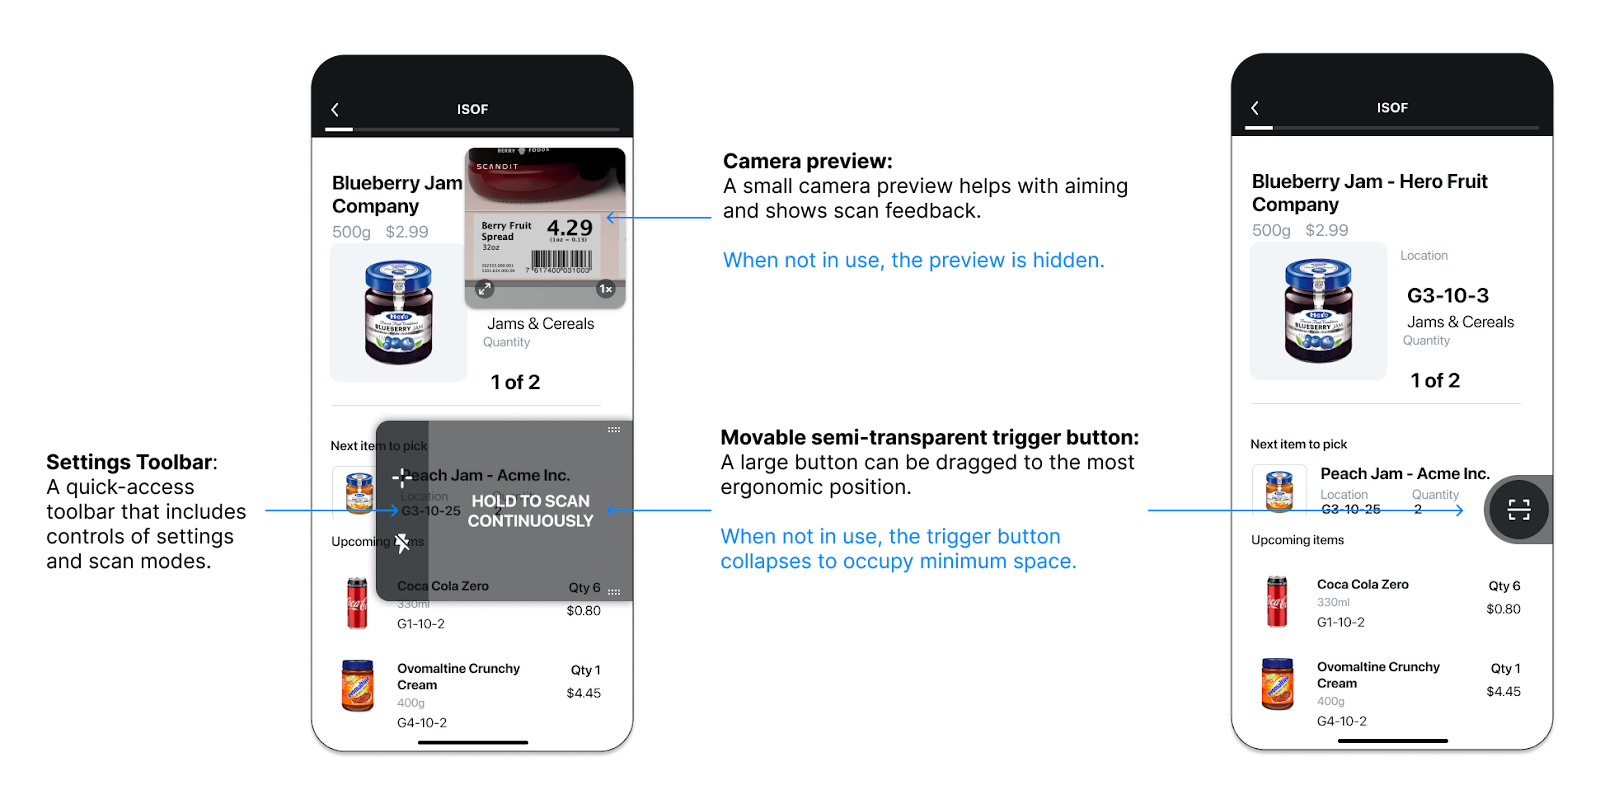
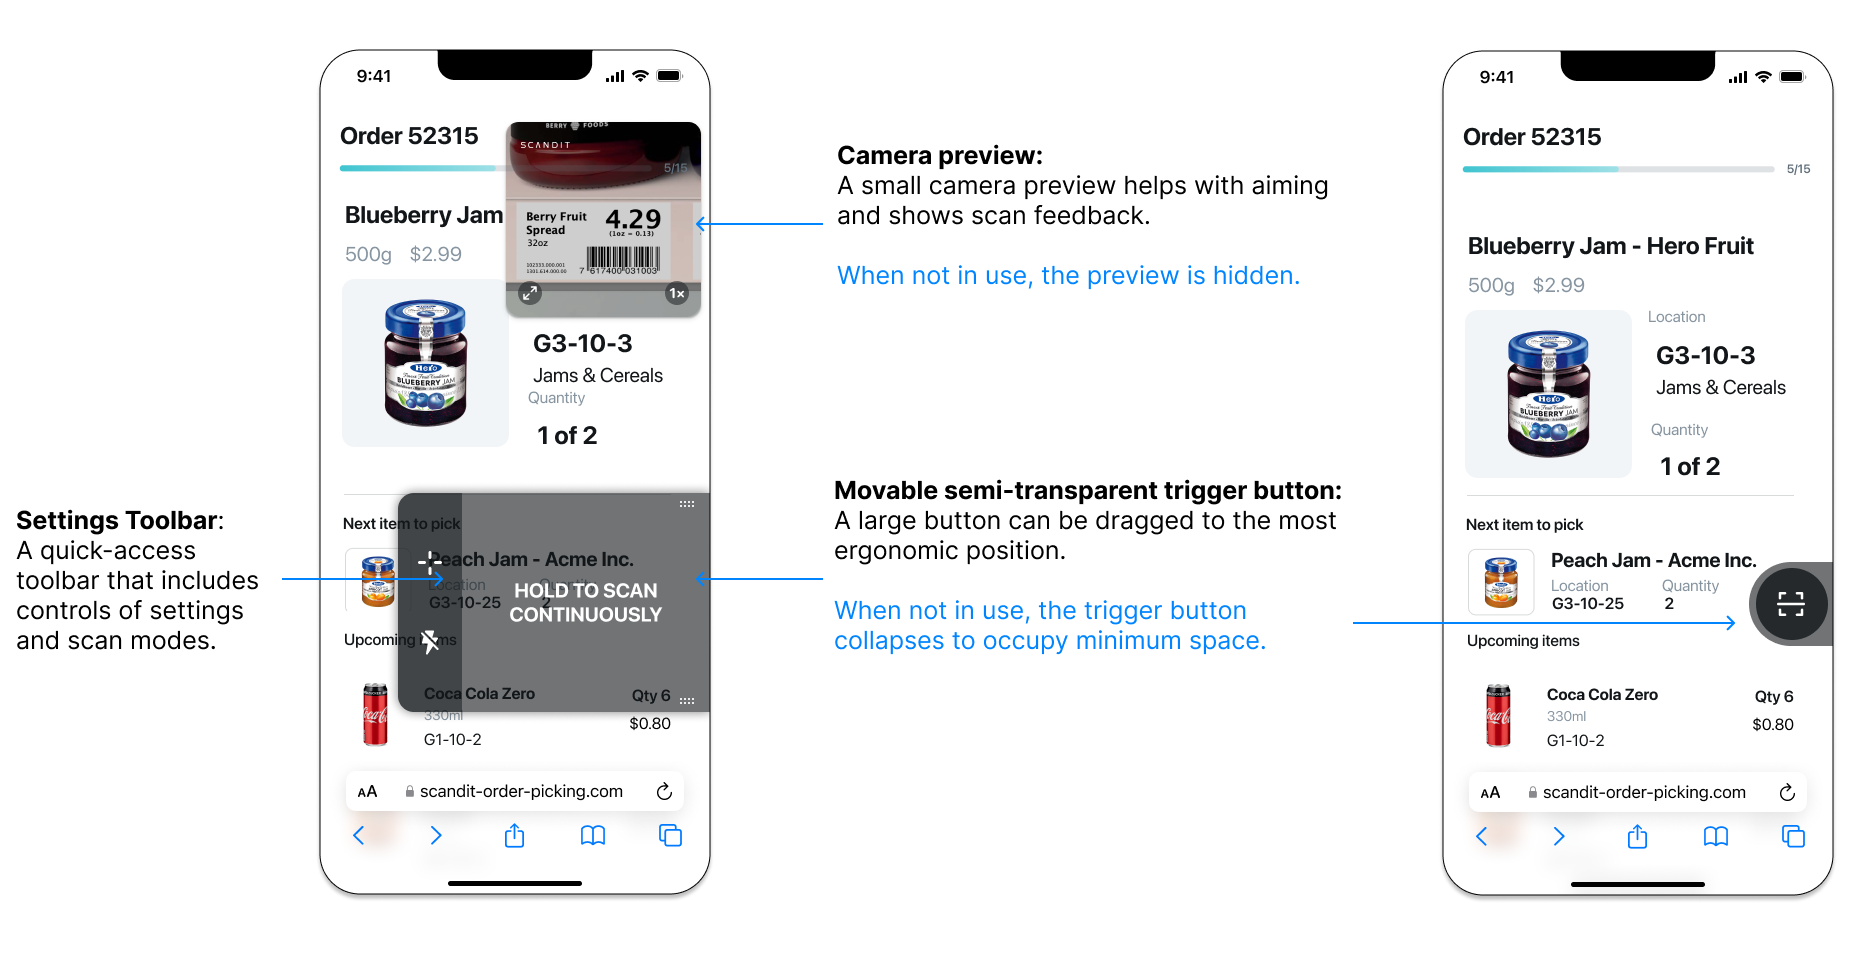
Update SparkScan images

diff --git a/docs/sdks/web/sparkscan/intro.md b/docs/sdks/web/sparkscan/intro.md
@@ -15,7 +15,7 @@ The UI elements in SparkScan are intentionally minimalistic, meant to be overlay
 
 Three main elements compose the UI:
 
-![SparkScan UI](/img/sparkscan/features.png)
+![SparkScan UI](/img/sparkscan/features_web.png)
 
 - **Camera preview**: A small camera preview helps with aiming and shows scan feedback. When not in use, the camera preview is hidden.
 - **Trigger button**: A large-sized, transparent, floating button that users can drag up and down to position it in the most ergonomic position. When not in use, the trigger button collapses to occupy less space.
